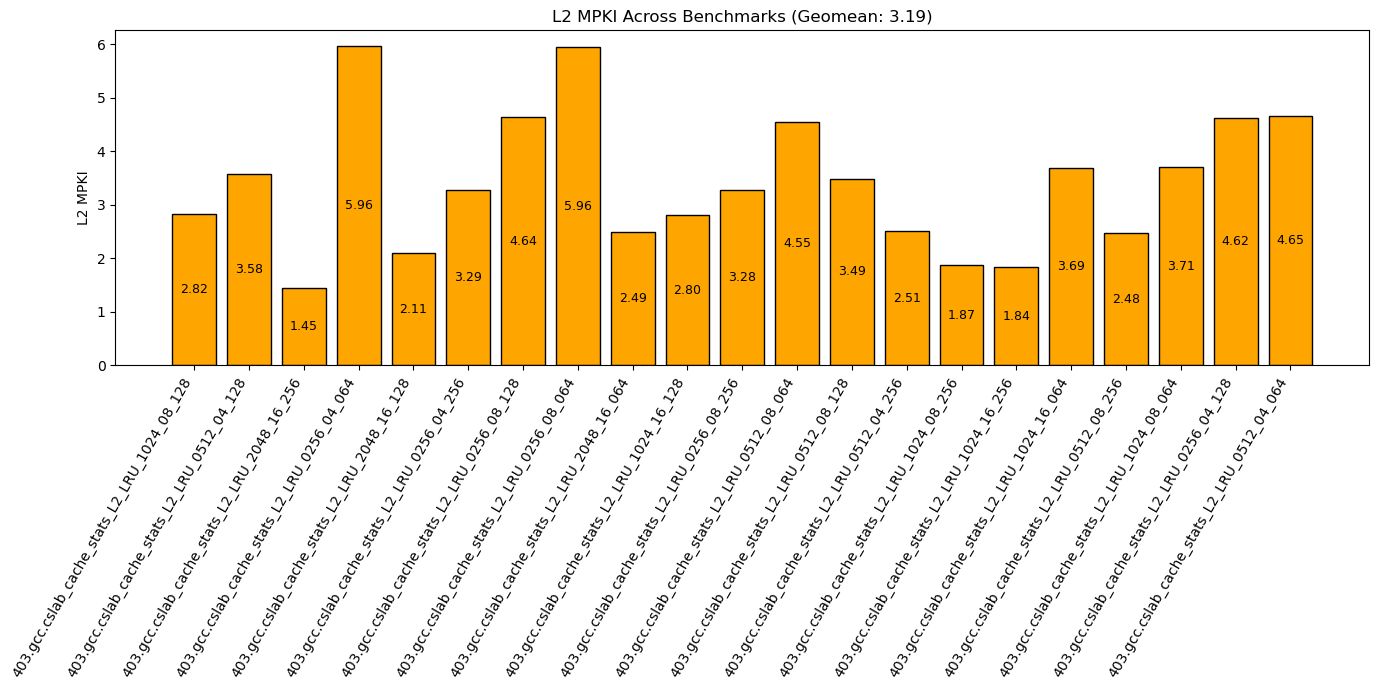
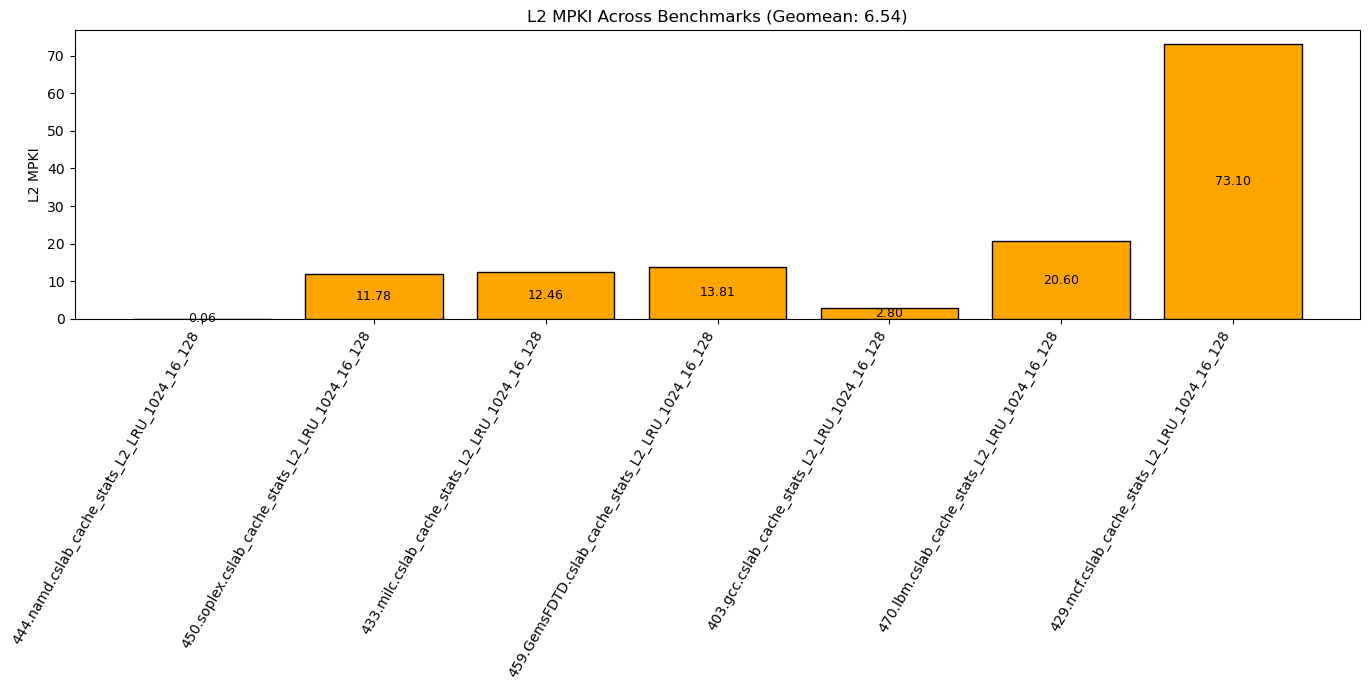
plot test

diff --git a/memory-hierarchy/plot/geo_plot.py b/memory-hierarchy/plot/geo_plot.py
@@ -14,58 +14,71 @@ def geomean(values):
     return math.exp(sum(logs) / len(logs)) if logs else 0
 
 if len(sys.argv) != 2:
-    print("Usage: python3 plot_l2_mpki_ipc.py <directory>")
+    print("Usage: python3 plot_l2_mpki_ipc.py <root_directory>")
     sys.exit(1)
 
-log_dir = sys.argv[1]
-if not os.path.isdir(log_dir):
-    print(f"Error: {log_dir} is not a valid directory.")
+root_dir = sys.argv[1]
+if not os.path.isdir(root_dir):
+    print(f"Error: {root_dir} is not a valid directory.")
     sys.exit(1)
 
-log_files = glob.glob(os.path.join(log_dir, "*.out"))
-if not log_files:
-    print(f"No .out files found in {log_dir}")
+subdirs = [d for d in sorted(os.listdir(root_dir)) if os.path.isdir(os.path.join(root_dir, d))]
+if not subdirs:
+    print(f"No subdirectories found in {root_dir}")
     sys.exit(1)
 
-mpki_vals, ipc_vals, benchmarks = [], [], []
+summary_mpki, summary_ipc, labels = [], [], []
 
-for file in log_files:
-    total_ins, l2_misses, ipc = 0, 0, 0.0
-    with open(file) as f:
-        for line in f:
-            if line.startswith("Total Instructions:"):
-                total_ins = int(line.split(":")[1].strip())
-            elif line.startswith("L2-Total-Misses:"):
-                l2_misses = int(line.split(":")[1].strip().split()[0])
-            elif line.startswith("IPC:"):
-                ipc = float(line.split(":")[1].strip())
-    if total_ins > 0:
-        mpki = l2_misses / (total_ins / 1000)
-        mpki_vals.append(mpki)
-        ipc_vals.append(ipc)
-        benchmarks.append(os.path.basename(file).replace(".out", ""))
+for subdir in subdirs:
+    full_path = os.path.join(root_dir, subdir)
+    log_files = glob.glob(os.path.join(full_path, "*.out"))
+    if not log_files:
+        print(f"No .out files in {subdir}, skipping.")
+        continue
 
-# Plot MPKI
-x = np.arange(len(benchmarks))
+    mpki_vals, ipc_vals = [], []
+    for file in log_files:
+        total_ins, l2_misses, ipc = 0, 0, 0.0
+        with open(file) as f:
+            for line in f:
+                if line.startswith("Total Instructions:"):
+                    total_ins = int(line.split(":")[1].strip())
+                elif line.startswith("L2-Total-Misses:"):
+                    l2_misses = int(line.split(":")[1].strip().split()[0])
+                elif line.startswith("IPC:"):
+                    ipc = float(line.split(":")[1].strip())
+        if total_ins > 0:
+            mpki = l2_misses / (total_ins / 1000)
+            mpki_vals.append(mpki)
+            ipc_vals.append(ipc)
+
+    if mpki_vals and ipc_vals:
+        summary_mpki.append(geomean(mpki_vals))
+        summary_ipc.append(geomean(ipc_vals))
+        labels.append(subdir)
+
+# Plot summary MPKI
+x = np.arange(len(labels))
 plt.figure(figsize=(14, 7))
-plt.bar(x, mpki_vals, color='orange', edgecolor='black')
-plt.xticks(x, benchmarks, rotation=60, ha='right')
-plt.ylabel("L2 MPKI")
-plt.title(f"L2 MPKI Across Benchmarks (Geomean: {geomean(mpki_vals):.2f})")
-for i, v in enumerate(mpki_vals):
+plt.bar(x, summary_mpki, color='orange', edgecolor='black')
+plt.xticks(x, labels, rotation=60, ha='right')
+plt.ylabel("L2 MPKI (Geomean)")
+plt.title("Geometric Mean of L2 MPKI by Configuration")
+for i, v in enumerate(summary_mpki):
     plt.text(x[i], v / 2, f"{v:.2f}", ha='center', va='center', fontsize=9)
 plt.tight_layout()
-mpki_filename = input("Please provide a filename for the MPKI chart (e.g. mpki_output.png): ")
+mpki_filename = input("Filename for MPKI chart (e.g. mpki_summary.png): ")
 plt.savefig(mpki_filename, bbox_inches='tight')
 
-# Plot IPC
+# Plot summary IPC
 plt.figure(figsize=(14, 7))
-plt.bar(x, ipc_vals, color='skyblue', edgecolor='black')
-plt.xticks(x, benchmarks, rotation=60, ha='right')
-plt.ylabel("IPC")
-plt.title(f"IPC Across Benchmarks (Geomean: {geomean(ipc_vals):.2f})")
-for i, v in enumerate(ipc_vals):
+plt.bar(x, summary_ipc, color='skyblue', edgecolor='black')
+plt.xticks(x, labels, rotation=60, ha='right')
+plt.ylabel("IPC (Geomean)")
+plt.title("Geometric Mean of IPC by Configuration")
+for i, v in enumerate(summary_ipc):
     plt.text(x[i], v / 2, f"{v:.2f}", ha='center', va='center', fontsize=9)
 plt.tight_layout()
-ipc_filename = input("Please provide a filename for the IPC chart (e.g. ipc_output.png): ")
+ipc_filename = input("Filename for IPC chart (e.g. ipc_summary.png): ")
 plt.savefig(ipc_filename, bbox_inches='tight')
+
